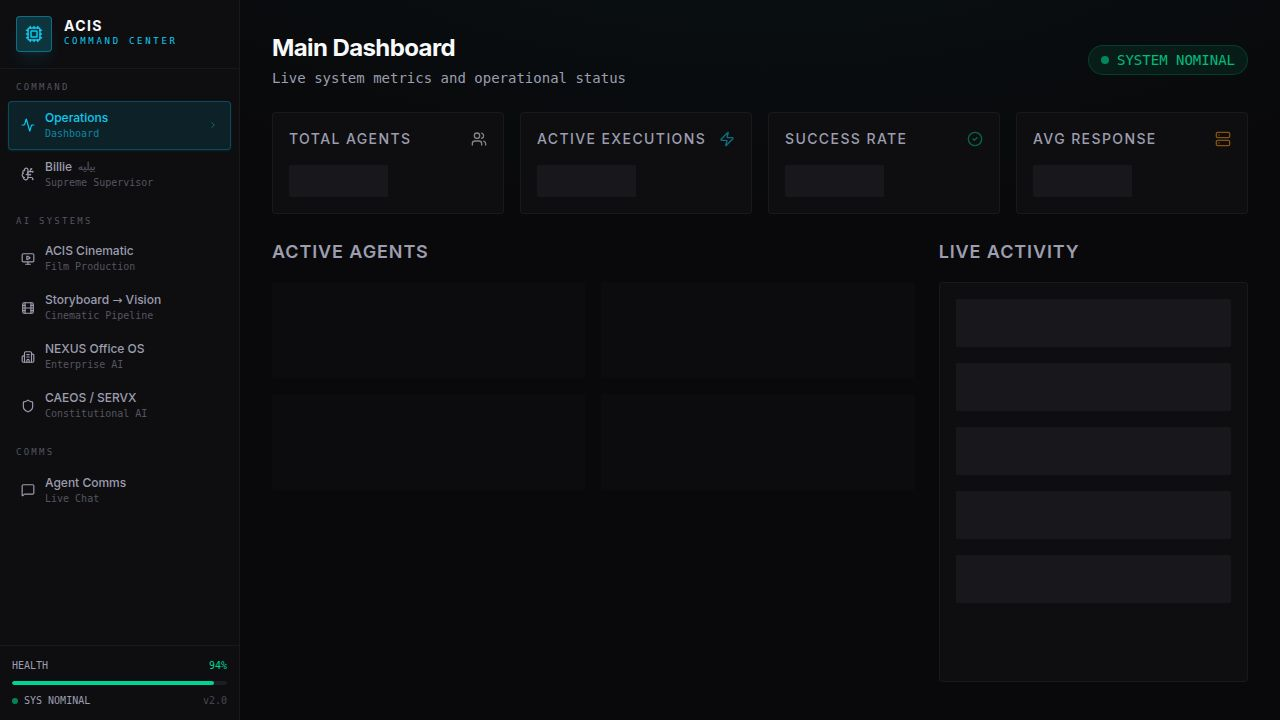
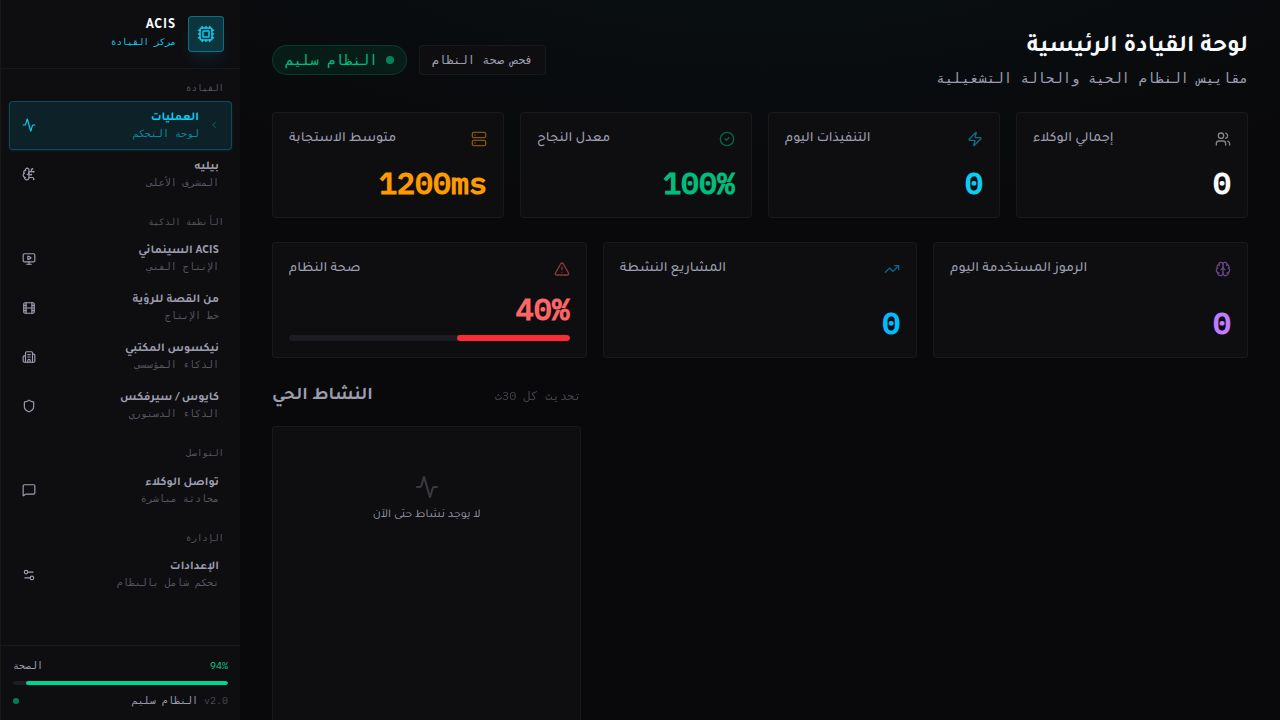
Published your App
Replit-Commit-Author: Deployment
Replit-Commit-Session-Id: 7ebbed75-0b11-4964-9a6d-42a78622202d
Replit-Commit-Checkpoint-Type: full_checkpoint
Replit-Commit-Event-Id: 2fabad1f-175d-4412-9563-2faf0a431fe9
Replit-Commit-Screenshot-Url: https://storage.googleapis.com/screenshot-production-us-central1/e2566318-f472-4abe-ad7c-fa02959739cb/7ebbed75-0b11-4964-9a6d-42a78622202d/djoB4QZ
Replit-Commit-Deployment-Build-Id: f6d0eaf8-c51d-40a6-a92f-63c0bd10750c
Replit-Helium-Checkpoint-Created: true

diff --git a/artifacts/api-server/src/lib/ai.ts b/artifacts/api-server/src/lib/ai.ts
@@ -1,5 +1,35 @@
 import { GoogleGenerativeAI } from "@google/generative-ai";
 import OpenAI from "openai";
+import { db } from "@workspace/db";
+import { systemSettingsTable } from "@workspace/db";
+import { eq } from "drizzle-orm";
+
+async function getDbKey(settingKey: string): Promise<string | null> {
+  try {
+    const rows = await db.select().from(systemSettingsTable).where(eq(systemSettingsTable.key, settingKey));
+    return rows[0]?.value || null;
+  } catch {
+    return null;
+  }
+}
+
+export async function getGeminiKey(): Promise<string | null> {
+  return process.env.GEMINI_API_KEY || await getDbKey("api_key.gemini");
+}
+
+export async function getAlibabaKey(): Promise<string | null> {
+  return process.env.ALIBABA_API_KEY || await getDbKey("api_key.alibaba");
+}
+
+export async function getGenAI(): Promise<GoogleGenerativeAI | null> {
+  const key = await getGeminiKey();
+  return key ? new GoogleGenerativeAI(key) : null;
+}
+
+export async function getQwenClient(): Promise<OpenAI | null> {
+  const key = await getAlibabaKey();
+  return key ? new OpenAI({ apiKey: key, baseURL: "https://dashscope.aliyuncs.com/compatible-mode/v1" }) : null;
+}
 
 const geminiApiKey = process.env.GEMINI_API_KEY;
 const alibabaApiKey = process.env.ALIBABA_API_KEY;